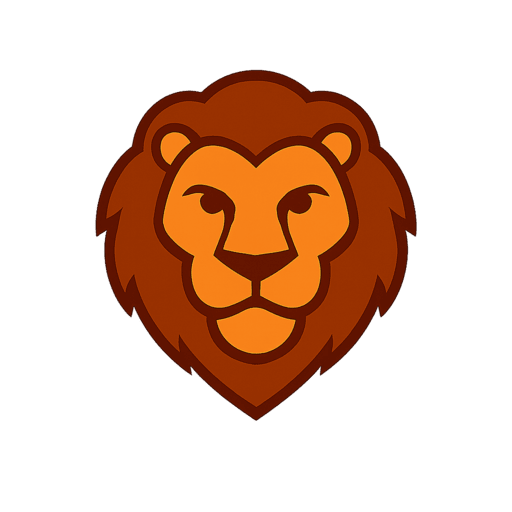
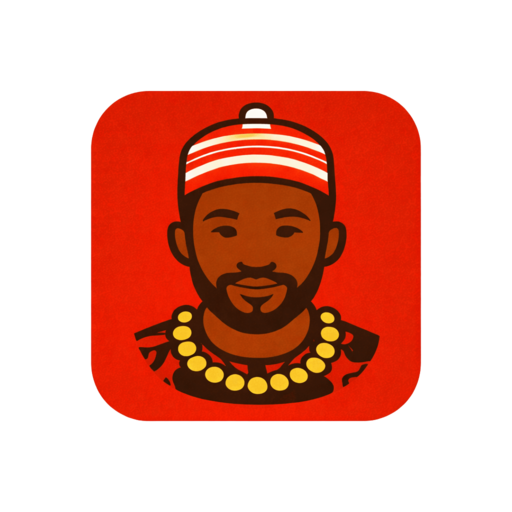
fix paywall

diff --git a/mobile/app/(tabs)/pro.tsx b/mobile/app/(tabs)/pro.tsx
@@ -100,6 +100,17 @@ export default function ProScreen() {
     }
   }, [isProUser, offerings, purchasePro]);
 
+  // If the user is already Pro, redirect them out of here
+  // We use useFocusEffect to handle this as soon as they land here, 
+  // or if they become Pro while on this screen.
+  useFocusEffect(
+    useCallback(() => {
+      if (!isLoading && isProUser) {
+        router.replace('/(tabs)');
+      }
+    }, [isProUser, isLoading, router])
+  );
+
   // Auto-present the paywall when this tab/screen gains focus if user is not Pro
   useFocusEffect(
     useCallback(() => {
@@ -156,8 +167,8 @@ export default function ProScreen() {
     );
   }, []);
 
-  // If the user is already Pro, show a success message instead of redirecting or showing the paywall button
-  if (isProUser) {
+  // If the user is already Pro, show a success message or handle redirection
+  if (!isLoading && isProUser) {
     return (
       <SafeAreaView style={[styles.container, { padding: 16 }]}>
         <LinearGradient
@@ -211,6 +222,15 @@ export default function ProScreen() {
           </TouchableOpacity>
         </View>
       </SafeAreaView>
+    );
+  }
+
+  // While checking status, show a loader to prevent flicker
+  if (isLoading) {
+    return (
+      <View style={[styles.container, { justifyContent: 'center', alignItems: 'center' }]}>
+        <ActivityIndicator size="large" color="#3b82f6" />
+      </View>
     );
   }
 

diff --git a/mobile/app/(tabs)/settings.tsx b/mobile/app/(tabs)/settings.tsx
@@ -35,6 +35,12 @@ import { presentCustomerCenter } from '@/lib/revenuecatUI';
 export default function SettingsScreen() {
   const { settings, updateSettings } = useSettings();
   const { isProUser, restorePurchases, isLoading } = usePurchases();
+
+  const isLockedItem = (locked: boolean) => {
+    if (isLoading) return false; // Don't show as locked while loading
+    return locked;
+  };
+
   const { theme, isDark } = useTheme();
   const styles = createStyles(theme, isDark);
   const [showReminderModal, setShowReminderModal] = useState(false);
@@ -311,7 +317,7 @@ export default function SettingsScreen() {
                 enabledTenses: { ...settings.enabledTenses, imperfect: value },
               })
             }
-            isLocked={!isProUser}
+            isLocked={isLockedItem(!isProUser)}
           />
 
           <ToggleItem
@@ -326,7 +332,7 @@ export default function SettingsScreen() {
                 },
               })
             }
-            isLocked={!isProUser}
+            isLocked={isLockedItem(!isProUser)}
           />
 
           <ToggleItem
@@ -338,7 +344,7 @@ export default function SettingsScreen() {
                 enabledTenses: { ...settings.enabledTenses, future: value },
               })
             }
-            isLocked={!isProUser}
+            isLocked={isLockedItem(!isProUser)}
           />
 
           <Text style={styles.subSectionTitle}>Other Tenses</Text>
@@ -355,7 +361,7 @@ export default function SettingsScreen() {
                 },
               })
             }
-            isLocked={!isProUser}
+            isLocked={isLockedItem(!isProUser)}
           />
 
           <ToggleItem
@@ -367,7 +373,7 @@ export default function SettingsScreen() {
                 enabledTenses: { ...settings.enabledTenses, imperative: value },
               })
             }
-            isLocked={!isProUser}
+            isLocked={isLockedItem(!isProUser)}
           />
 
           <Text style={styles.subSectionTitle}>
@@ -395,12 +401,12 @@ export default function SettingsScreen() {
             icon={Target}
             title="Daily Goal"
             subtitle={
-              isProUser
+              !isLoading && isProUser
                 ? `${settings.dailyGoal} verbs per day`
                 : '100 verbs per day (Pro required to change)'
             }
-            onPress={isProUser ? () => setShowGoalModal(true) : undefined}
-            isLocked={!isProUser}
+            onPress={!isLoading && isProUser ? () => setShowGoalModal(true) : undefined}
+            isLocked={isLockedItem(!isProUser)}
           />
         </SettingsSection>
 

diff --git a/mobile/app/(tabs)/index.tsx b/mobile/app/(tabs)/index.tsx
@@ -71,14 +71,17 @@ export default function PracticeScreen() {
 
   const availableTenses: Tense[] = useMemo(() => {
     let list = [...tenses];
-    if (!isProUser) {
+    // During initial load, assume Pro to prevent UI shift if they are Pro.
+    // However, for filtering we should probably wait for load if possible,
+    // but here we just use isProUser which is false initially.
+    if (!isLoading && !isProUser) {
       list = list.filter((t) => t === 'present' || t === 'past');
     }
     list = list.filter((t) => {
       return settings.enabledTenses[t];
     });
     if (list.length === 0) {
-      const defaults: Tense[] = !isProUser
+      const defaults: Tense[] = (!isLoading && !isProUser)
         ? ['present', 'past']
         : ['present', 'past', 'future'];
       const fallback = defaults.filter((t) => settings.enabledTenses[t]);
@@ -86,7 +89,7 @@ export default function PracticeScreen() {
       return defaults;
     }
     return list;
-  }, [isProUser, settings.enabledTenses]);
+  }, [isProUser, isLoading, settings.enabledTenses]);
 
   // Extract the common logic into a reusable function
   const loadNewVerb = useCallback(async () => {

diff --git a/mobile/app/(tabs)/verbs.tsx b/mobile/app/(tabs)/verbs.tsx
@@ -508,17 +508,18 @@ export default function VerbsScreen() {
 // Separate component for verb detail content
 const VerbDetailContent = ({ verb, theme }: { verb: IgboVerb; theme: any }) => {
   const { settings } = useSettings();
-  const { isProUser } = usePurchases();
+  const { isProUser, isLoading } = usePurchases();
 
   // Compute available tenses similar to Practice screen
   const availableTenses: Tense[] = useMemo(() => {
     // On the Verbs page, Settings (enabled tenses) should NOT affect which tenses appear.
     // Only Pro status controls visibility: free users see Present and Past; Pro users see all tenses.
-    if (!isProUser) {
+    // During initial load, assume Pro to prevent UI shift if they are Pro.
+    if (!isLoading && !isProUser) {
       return ['present', 'past'];
     }
     return [...(tenseList as Tense[])];
-  }, [isProUser]);
+  }, [isProUser, isLoading]);
 
   const titleCase = (s: string) => s.charAt(0).toUpperCase() + s.slice(1);
 

diff --git a/mobile/app/(tabs)/_layout.tsx b/mobile/app/(tabs)/_layout.tsx
@@ -8,7 +8,7 @@ import {
 import { usePurchases } from '@/hooks/usePurchases';
 
 export default function TabLayout() {
-  const { isProUser } = usePurchases();
+  const { isProUser, isLoading } = usePurchases();
 
   return (
     <Tabs
@@ -38,7 +38,7 @@ export default function TabLayout() {
         }}
       />
       {/* Conditionally render the Pro tab: hide it completely for Pro users */}
-      {!isProUser && (
+      {!isLoading && !isProUser && (
         <Tabs.Screen
           name="pro"
           options={{